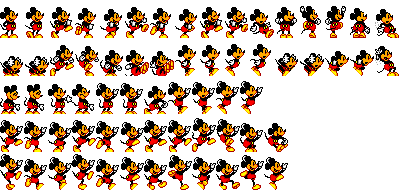
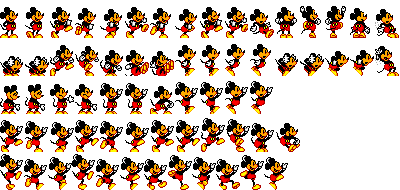
Fet que el mickey pugui llençar el block

Changed region(s): [[0.06, 0.4211, 0.75, 0.8158]]

diff --git a/castleofillusion/Player.cpp b/castleofillusion/Player.cpp
@@ -22,7 +22,8 @@
 #define BLINK_TIME 200
 
 enum PlayerAnims {
-	STAND_LEFT, STAND_RIGHT, MOVE_LEFT, MOVE_RIGHT, CROUCH_LEFT, CROUCH_RIGHT, GROUND_POUND_LEFT, GROUND_POUND_RIGHT, JUMP_LEFT, JUMP_RIGHT, FALL_LEFT, FALL_RIGHT, BREAKING_LEFT, BREAKING_RIGHT, BALANCE_LEFT, BALANCE_RIGHT
+	STAND_LEFT, STAND_RIGHT, MOVE_LEFT, MOVE_RIGHT, CROUCH_LEFT, CROUCH_RIGHT, GROUND_POUND_LEFT, GROUND_POUND_RIGHT, JUMP_LEFT, JUMP_RIGHT, FALL_LEFT, FALL_RIGHT, BREAKING_LEFT, BREAKING_RIGHT, BALANCE_LEFT, BALANCE_RIGHT,
+	PREPARED_TO_GRAB_LEFT, PREPARED_TO_GRAB_RIGHT, GRABBING_LEFT, GRABBING_RIGHT, STAND_GRABBED_LEFT, STAND_GRABBED_RIGHT, MOVE_GRABBED_LEFT, MOVE_GRABBED_RIGHT
 };
 
 
@@ -37,7 +38,7 @@ void Player::init(const glm::ivec2& tileMapPos, ShaderProgram& shaderProgram) {
 	jumpSound = soundEngine->addSoundSourceFromFile("sound/jump.wav");
 	spritesheet.loadFromFile("images/mickey.png", TEXTURE_PIXEL_FORMAT_RGBA);
 	sprite = Sprite::createSprite(glm::ivec2(25, 38), glm::vec2(OFFSET_X, OFFSET_Y), &spritesheet, &shaderProgram);
-	sprite->setNumberAnimations(16);
+	sprite->setNumberAnimations(24);
 
 	sprite->setAnimationSpeed(STAND_LEFT, 4);
 	sprite->addKeyframe(STAND_LEFT, glm::vec2(0.f, 0.f));
@@ -107,6 +108,42 @@ void Player::init(const glm::ivec2& tileMapPos, ShaderProgram& shaderProgram) {
 	sprite->addKeyframe(BALANCE_RIGHT, glm::vec2(15 * OFFSET_X, 0.f));
 	sprite->addKeyframe(BALANCE_RIGHT, glm::vec2(15 * OFFSET_X, OFFSET_Y));
 		
+
+	sprite->setAnimationSpeed(PREPARED_TO_GRAB_LEFT, 1);
+	sprite->addKeyframe(PREPARED_TO_GRAB_LEFT, glm::vec2(0.f, 2*OFFSET_Y));
+
+	sprite->setAnimationSpeed(PREPARED_TO_GRAB_RIGHT, 1);
+	sprite->addKeyframe(PREPARED_TO_GRAB_RIGHT, glm::vec2(0.f, 2*OFFSET_Y));
+
+	sprite->setAnimationSpeed(GRABBING_LEFT, 1);
+	sprite->addKeyframe(GRABBING_RIGHT, glm::vec2(4 * OFFSET_X, 2 * OFFSET_Y));
+
+	sprite->setAnimationSpeed(GRABBING_RIGHT, 1);
+	sprite->addKeyframe(GRABBING_RIGHT, glm::vec2(4 * OFFSET_X, 2 * OFFSET_Y));
+
+	sprite->setAnimationSpeed(STAND_GRABBED_LEFT, 1);
+	sprite->addKeyframe(STAND_GRABBED_LEFT, glm::vec2(4 *OFFSET_X, 2 * OFFSET_Y));
+
+	sprite->setAnimationSpeed(STAND_GRABBED_RIGHT, 1);
+	sprite->addKeyframe(STAND_GRABBED_RIGHT, glm::vec2(4 * OFFSET_X, 2 * OFFSET_Y));
+
+	sprite->setAnimationSpeed(MOVE_GRABBED_LEFT, 6);
+	sprite->addKeyframe(MOVE_GRABBED_LEFT, glm::vec2(0, 3 * OFFSET_Y));
+	sprite->addKeyframe(MOVE_GRABBED_LEFT, glm::vec2(1 * OFFSET_X, 3 * OFFSET_Y));
+	sprite->addKeyframe(MOVE_GRABBED_LEFT, glm::vec2(2 * OFFSET_X, 3 * OFFSET_Y));
+	sprite->addKeyframe(MOVE_GRABBED_LEFT, glm::vec2(3 * OFFSET_X, 3 * OFFSET_Y));
+	sprite->addKeyframe(MOVE_GRABBED_LEFT, glm::vec2(4 * OFFSET_X, 3 * OFFSET_Y));
+	sprite->addKeyframe(MOVE_GRABBED_LEFT, glm::vec2(5 * OFFSET_X, 3 * OFFSET_Y));
+
+	sprite->setAnimationSpeed(MOVE_GRABBED_RIGHT, 6);
+	sprite->addKeyframe(MOVE_GRABBED_RIGHT, glm::vec2(0, 3 * OFFSET_Y));
+	sprite->addKeyframe(MOVE_GRABBED_RIGHT, glm::vec2(1 * OFFSET_X, 3 * OFFSET_Y));
+	sprite->addKeyframe(MOVE_GRABBED_RIGHT, glm::vec2(2 * OFFSET_X, 3 * OFFSET_Y));
+	sprite->addKeyframe(MOVE_GRABBED_RIGHT, glm::vec2(3 * OFFSET_X, 3 * OFFSET_Y));
+	sprite->addKeyframe(MOVE_GRABBED_RIGHT, glm::vec2(4 * OFFSET_X, 3 * OFFSET_Y));
+	sprite->addKeyframe(MOVE_GRABBED_RIGHT, glm::vec2(5 * OFFSET_X, 3 * OFFSET_Y));
+
+
 	sprite->changeAnimation(STAND_RIGHT);
 	tileMapDispl = glm::vec2(tileMapPos);
 	hitbox_x = 20;
@@ -176,13 +213,15 @@ void Player::update(int deltaTime) {
 		}
 	}
 	else if(Game::instance().getKey(GLFW_KEY_A) && !crouching) {
-		if (sprite->animation() != MOVE_LEFT && sprite->animation() != GROUND_POUND_LEFT && sprite->animation() != JUMP_LEFT && sprite->animation() != FALL_LEFT && !groundpounding) sprite->changeAnimation(MOVE_LEFT);
+		if (object && sprite->animation() != MOVE_GRABBED_LEFT) sprite->changeAnimation(MOVE_GRABBED_LEFT);
+		else if (sprite->animation() != MOVE_LEFT && sprite->animation() != GROUND_POUND_LEFT && sprite->animation() != JUMP_LEFT && sprite->animation() != FALL_LEFT && !groundpounding) sprite->changeAnimation(MOVE_LEFT);
 		speedX -= ACCELERATION * deltaTime;
 		if (speedX <= -MAX_SPEED) speedX = -MAX_SPEED;
 		pos.x += speedX;
 	}
 	else if (Game::instance().getKey(GLFW_KEY_D) && !crouching) {
-		if (sprite->animation() != MOVE_RIGHT && sprite->animation() != GROUND_POUND_RIGHT && sprite->animation() != JUMP_RIGHT && sprite->animation() != FALL_RIGHT && !groundpounding) sprite->changeAnimation(MOVE_RIGHT);
+		if (object && sprite->animation() != MOVE_GRABBED_RIGHT) sprite->changeAnimation(MOVE_GRABBED_RIGHT);
+		else if (sprite->animation() != MOVE_RIGHT && sprite->animation() != GROUND_POUND_RIGHT && sprite->animation() != JUMP_RIGHT && sprite->animation() != FALL_RIGHT && !groundpounding) sprite->changeAnimation(MOVE_RIGHT);
 		speedX += ACCELERATION * deltaTime;
 		if (speedX >= MAX_SPEED) speedX = MAX_SPEED;
 		pos.x += speedX;
@@ -296,6 +335,18 @@ void Player::update(int deltaTime) {
 			invulnerable = false;
 		}
 	}
+	if (object) {
+		switch (sprite->animation()) {
+		case STAND_LEFT:
+			sprite->changeAnimation(STAND_GRABBED_LEFT);
+			break;
+		case STAND_RIGHT:
+			sprite->changeAnimation(STAND_GRABBED_RIGHT);
+			break;
+		default:
+			break;
+		}
+	}
 	sprite->setPosition(glm::vec2(int(tileMapDispl.x + pos.x), int(tileMapDispl.y + pos.y)));
 }
 
@@ -371,4 +422,20 @@ bool Player::checkCollision(glm::vec4 hitboxentity) {
 
 void Player::setSoundEngine(irrklang::ISoundEngine* soundEngine) {
 	this->soundEngine = soundEngine;
+}
+
+void Player::grabAnimation() {
+	if (movingLeft()) sprite->changeAnimation(PREPARED_TO_GRAB_LEFT);
+	else sprite->changeAnimation(PREPARED_TO_GRAB_RIGHT);
+}
+
+void Player::setObject(bool object) {
+	this->object = object;
+}
+
+bool Player::getObject() {
+	return object;
+}
+bool Player::moving() {
+	return speedX != 0;
 }

diff --git a/castleofillusion/Block.cpp b/castleofillusion/Block.cpp
@@ -4,6 +4,7 @@
 
 #define OFFSET_X 0.125
 #define OFFSET_Y 0.5
+#define JUMP_ANGLE_STEP 4
 
 #define HITBOX_X 16
 #define HITBOX_Y 16
@@ -32,60 +33,104 @@ void Block::init(const glm::ivec2& tileMapPos, ShaderProgram& shaderProgram) {
 }
 
 void Block::update(int deltaTime) {
-	pos.y += 4;
-	map->collisionMoveDown(pos, glm::vec2(hitbox_x, hitbox_y), &pos.y);
-	if (Game::instance().getKey(GLFW_KEY_F) && !transition) {
-		transition = true;
-		Game::instance().keyReleased(GLFW_KEY_F);
-	}
-	if (transition && !pickedUp) {
-		transition = false;
-		if (map->setTileAsBlock(tileX, tileY, 0)) {
-			pickedUp = true;
-		};
-	}
-	if (pickedUp && !falling) {
-		pos = player->getPosition();
+	if (throwed) {
+		pos.y += 1;
+		map->collisionMoveDown(pos, glm::vec2(hitbox_x, hitbox_y), &pos.y);
+		if (left) {
+			pos.x -= 4;
+			if (map->collisionMoveLeft(pos, glm::vec2(hitbox_x, hitbox_y))) {
+				throwed = false;
+				tileX = pos.x / tileSize;
+				tileY = pos.y / tileSize;
+				pos.x = tileX * tileSize;
+				pos.y = tileY * tileSize;
+				falling = true;
+			}
+		}
+		else {
+			pos.x += 4;
+			if (map->collisionMoveRight(pos, glm::vec2(hitbox_x, hitbox_y))) {
+				throwed = false;
+				tileX = pos.x / tileSize;
+				tileY = pos.y / tileSize;
+				pos.x = tileX * tileSize;
+				pos.y = tileY * tileSize;
+				falling = true;
+			}
+		}
+		sprite->setPosition(glm::vec2(float(tileMapDispl.x + pos.x), float(tileMapDispl.y + pos.y)));
+		return;
 	}
 	if (falling) {
 		pos.y += 4;
 		if (map->collisionMoveDown(pos, glm::vec2(hitbox_x, hitbox_y), &pos.y)) {
 			tileY = pos.y / tileSize;
+			pos.y = tileY * tileSize;
 			if (map->setTileAsBlock(tileX, tileY, 1000)) {
 				pickedUp = false;
 				falling = false;
 			}
 		}
 	}
-	if (transition && pickedUp) {
-		transition = false;
+	if (pickedUp && !falling && !transition) {
 		pos = player->getPosition();
-		int tileXtmp = pos.x / tileSize;
-		int tileYtmp = pos.y / tileSize;
-		tileX = tileXtmp + 1; // Cambiar a colocar cap a on mira (if movingLeft -> -1 i no + 1)
-		tileY = tileYtmp + 1;
-		pos.x = tileX * tileSize;
-		pos.y = tileY * tileSize;
-		pos.y += 4;
-		bool fallingtmp = !map->collisionMoveDown(pos, glm::vec2(hitbox_x, hitbox_y), &pos.y);
-		if (fallingtmp && map->isTileValidAsBlock(tileX, tileY)) {
-			falling = true;
+		if (Game::instance().getKey(GLFW_KEY_F) && !transition) {
+			transition = true;
+			player->setObject(false);
+			Game::instance().keyReleased(GLFW_KEY_F);
 		}
-		else if (!fallingtmp) {
-			if (map->setTileAsBlock(tileX, tileY, 1000)) {
-				pickedUp = false;
-				player->setPosition(glm::vec2(tileXtmp * tileSize, tileYtmp * tileSize));
+	}
+	if (transition && pickedUp) {
+		if (!player->moving()) {
+			transition = false;
+			pos = player->getPosition();
+			int tileXtmp = pos.x / tileSize;
+			int tileYtmp = pos.y / tileSize;
+			if (player->movingLeft()) tileX = tileXtmp - 1;
+			else tileX = tileXtmp + 1;
+			tileY = tileYtmp + 1;
+			pos.x = tileX * tileSize;
+			pos.y = tileY * tileSize;
+			pos.y += 4;
+			bool fallingtmp = !map->collisionMoveDown(pos, glm::vec2(hitbox_x, hitbox_y), &pos.y);
+			if (fallingtmp && map->isTileValidAsBlock(tileX, tileY)) {
+				falling = true;
+			}
+			else if (!fallingtmp) {
+				if (map->setTileAsBlock(tileX, tileY, 1000)) {
+					pickedUp = false;
+					player->setPosition(glm::vec2(tileXtmp * tileSize, tileYtmp * tileSize));
+				}
+				else pos = player->getPosition();
 			}
 		}
+		else {
+			left = player->movingLeft();
+			throwed = true;
+			transition = false;
+			pickedUp = false;
+			jumpAngle = 0;
+			startY = pos.y;
+		}
 	} 
-	if (!pickedUp) {
+	if (!pickedUp && !throwed && !falling) {
 		tileX = pos.x / tileSize;
 		tileY = pos.y / tileSize;
 		map->setTileAsBlock(tileX, tileY,1000);
+		if (player->checkCollision(glm::vec4(pos.x - 1,pos.y,hitbox_x + 2,hitbox_y))) {
+			player->grabAnimation();
+			if (Game::instance().getKey(GLFW_KEY_F)) {
+				if (map->setTileAsBlock(tileX, tileY, 0)) {
+					pickedUp = true;
+					player->setObject(true);
+					Game::instance().keyReleased(GLFW_KEY_F);
+				}
+			}
+		}
     }
 	sprite->setPosition(glm::vec2(float(tileMapDispl.x + pos.x), float(tileMapDispl.y + pos.y)));
 }
 
 void Block::onEntityHit() {
-	
+		
 }

diff --git a/castleofillusion/Player.h b/castleofillusion/Player.h
@@ -29,6 +29,10 @@ public:
 	bool isGodMode();
 	bool checkCollision(glm::vec4 hitboxentity);
 	void setSoundEngine(irrklang::ISoundEngine* soundEngine);
+	void grabAnimation();
+	bool getObject();
+	bool moving();
+	void setObject(bool object);
 
 private:
 	irrklang::ISoundEngine* soundEngine;
@@ -37,7 +41,7 @@ private:
 	int jumpAngle;
 	float speedX,speedY, startY;
 	int max = 800;
-	bool godMode = false;
+	bool godMode = false,object = false;
 };
 
 

diff --git a/castleofillusion/Block.h b/castleofillusion/Block.h
@@ -13,7 +13,7 @@ public:
 	virtual void update(int deltaTime);
 	virtual void onEntityHit();	
 private:
-	bool pickedUp = false, transition = false, falling = false;
+	bool pickedUp = false, transition = false, falling = false,throwed = false,left = false;
 	int tileX, tileY,tileSize;
 
 };
